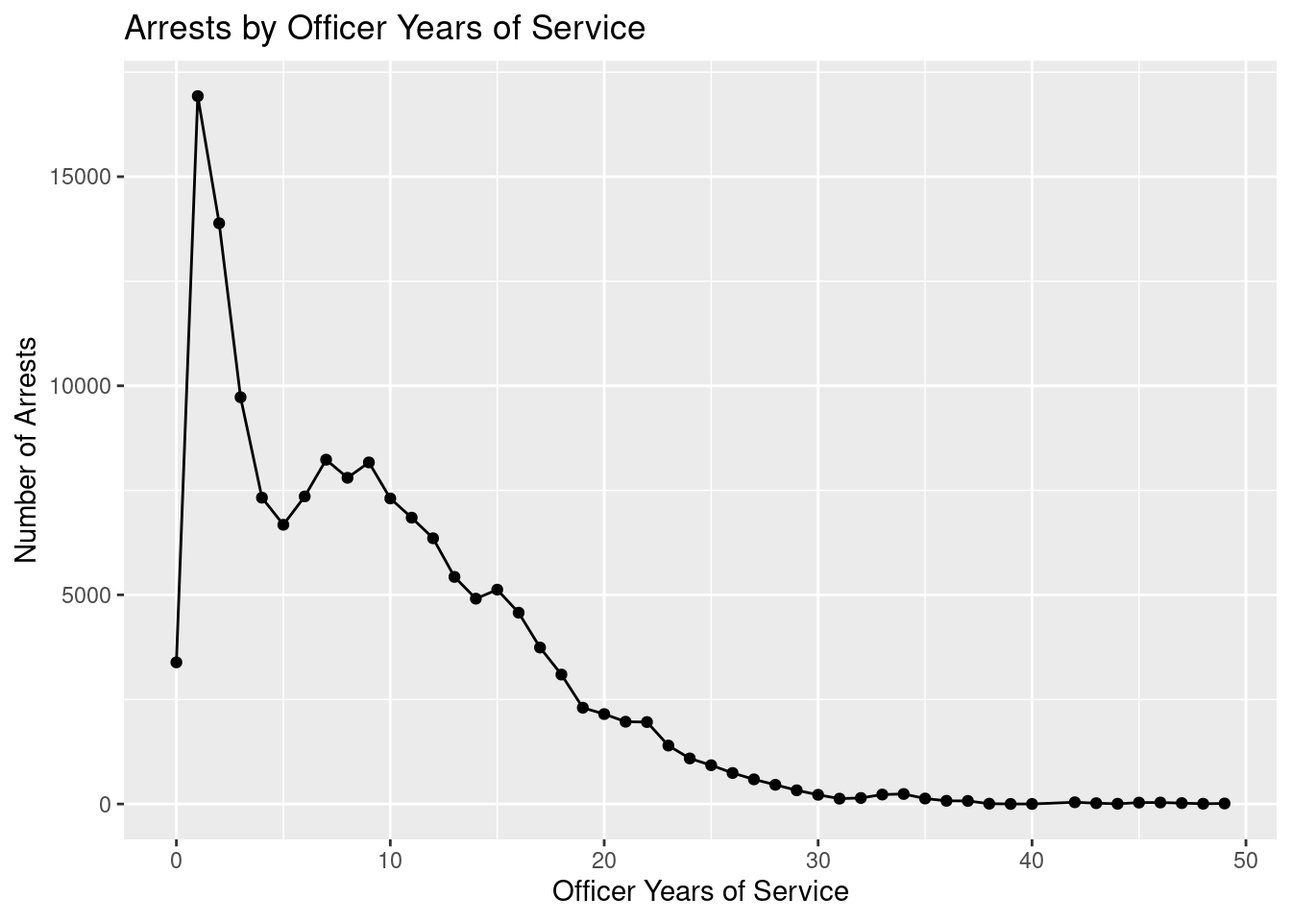
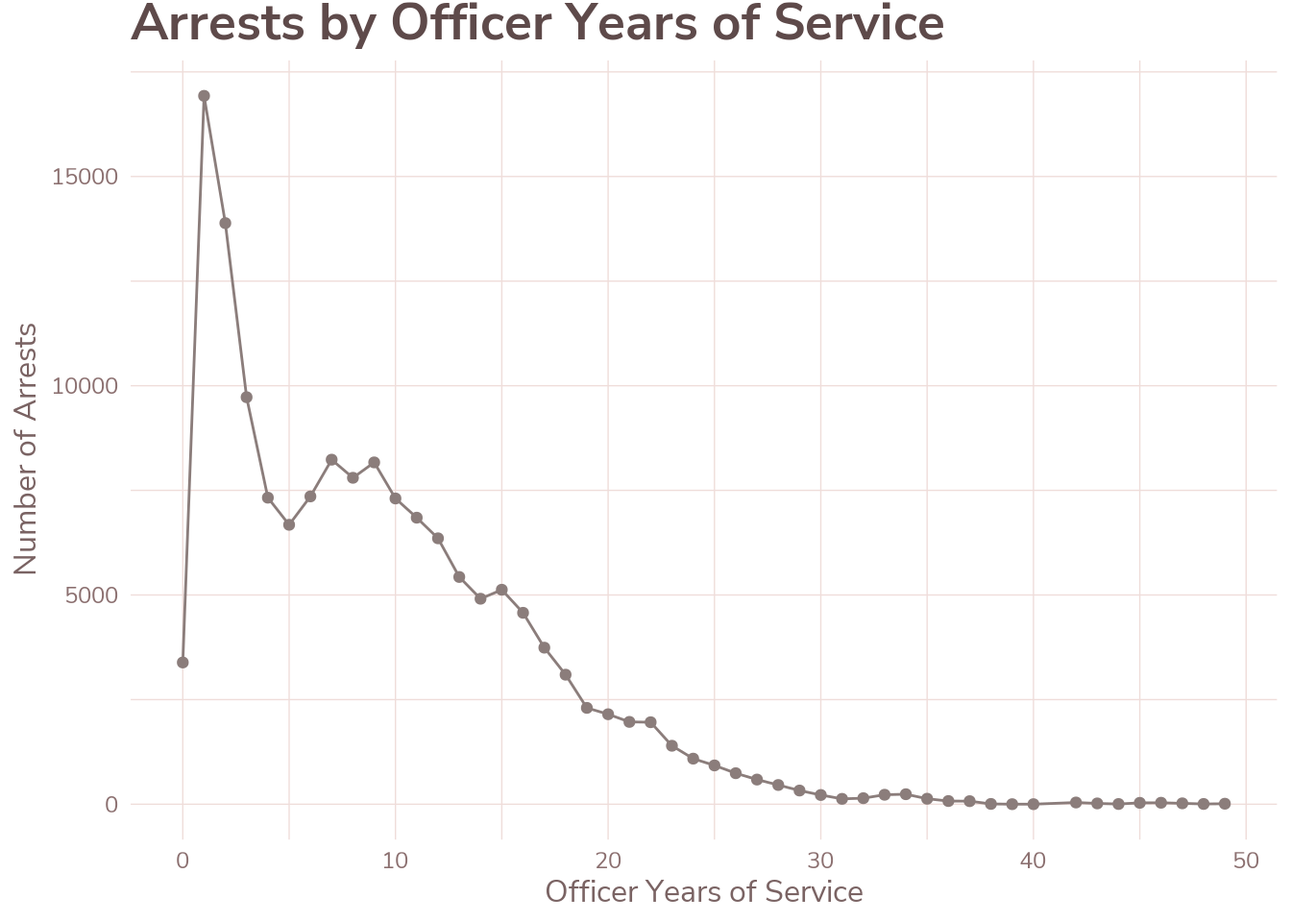
commit

diff --git a/docs/trafficstops.html b/docs/trafficstops.html
@@ -217,24 +217,33 @@ pre > code.sourceCode > span > a:first-child::before { text-decoration: underlin
 </header>
 
 
-<p>For this project, I plan on using the various data sets within the Stanford Open Policing Project to identify any noticeable trends or interesting features within traffic stop data for three populous cities within the United States. The data sets used in this assignment all contain standardized stop data from Nashville, Philadelphia, San Francisco, Los Angeles, and Chicago. The reason I chose Nashville, Philadelphia, and San Francisco was because I wanted to perform the same query of taking the average age of the individual subjected to a traffic stop on each of these cities to compare whether or not there was a difference in the results. These cities all have data for the age of the individual subjected to the traffic stop, which some of the other data sets were missing.</p>
+<p>For this project, I plan on using the various data sets within the Stanford Open Policing Project to identify any interesting features within traffic stop data for cities within the United States. The data sets used in this assignment all contain standardized stop data from Nashville, Philadelphia, San Francisco, Los Angeles, and Chicago. The reason I chose Nashville, Philadelphia, and San Francisco was because I wanted to perform the same query of taking the average age of the individual subjected to a traffic stop on each of these cities to compare whether or not there was a difference in the results. These cities all have data for the age of the individual subjected to the traffic stop, which some of the other data sets were missing.</p>
 <p>I also chose Los Angeles and Chicago as other cities to examine because I wanted to explore data from larger cities. A useful feature of the Los Angeles data set was that the data set noted whether the the traffic stop was a vehicular or pedestrian one. Because of this, I am interested in comparing whether certain racial groups experience pedestrian stops at different rates than vehicular stops in Los Angeles.</p>
 <p>The Chicago data set was unique because it had information on the officer’s age, race, sex, and years of service for each traffic stop. Given this information, I wanted to explore the relationship between the number of years of service that an officer had and whether or not they made an arrest at a traffic stop.</p>
 <p>To start this project, I established a connection with the SQL database where the different data sets were located and queried the database for the various tables included in the database.</p>
 <div class="cell">
-<div class="sourceCode cell-code" id="cb1"><pre class="sourceCode r code-with-copy"><code class="sourceCode r"><span id="cb1-1"><a href="#cb1-1" aria-hidden="true" tabindex="-1"></a><span class="fu">library</span>(tidyverse)</span>
-<span id="cb1-2"><a href="#cb1-2" aria-hidden="true" tabindex="-1"></a><span class="fu">library</span>(ggplot2)</span>
-<span id="cb1-3"><a href="#cb1-3" aria-hidden="true" tabindex="-1"></a></span>
-<span id="cb1-4"><a href="#cb1-4" aria-hidden="true" tabindex="-1"></a>con_traffic <span class="ot">&lt;-</span> DBI<span class="sc">::</span><span class="fu">dbConnect</span>(</span>
-<span id="cb1-5"><a href="#cb1-5" aria-hidden="true" tabindex="-1"></a>  RMariaDB<span class="sc">::</span><span class="fu">MariaDB</span>(),</span>
-<span id="cb1-6"><a href="#cb1-6" aria-hidden="true" tabindex="-1"></a>  <span class="at">dbname =</span> <span class="st">"traffic"</span>,</span>
-<span id="cb1-7"><a href="#cb1-7" aria-hidden="true" tabindex="-1"></a>  <span class="at">host =</span> <span class="fu">Sys.getenv</span>(<span class="st">"TRAFFIC_HOST"</span>),</span>
-<span id="cb1-8"><a href="#cb1-8" aria-hidden="true" tabindex="-1"></a>  <span class="at">user =</span> <span class="fu">Sys.getenv</span>(<span class="st">"TRAFFIC_USER"</span>),</span>
-<span id="cb1-9"><a href="#cb1-9" aria-hidden="true" tabindex="-1"></a>  <span class="at">password =</span> <span class="fu">Sys.getenv</span>(<span class="st">"TRAFFIC_PWD"</span>)</span>
-<span id="cb1-10"><a href="#cb1-10" aria-hidden="true" tabindex="-1"></a>)</span></code><button title="Copy to Clipboard" class="code-copy-button"><i class="bi"></i></button></pre></div>
+<details class="code-fold">
+<summary>Show the code</summary>
+<div class="sourceCode cell-code" id="cb1"><pre class="sourceCode r code-with-copy"><code class="sourceCode r"><span id="cb1-1"><a href="#cb1-1" aria-hidden="true" tabindex="-1"></a><span class="co">#load necessary packages + custom ggplot theme</span></span>
+<span id="cb1-2"><a href="#cb1-2" aria-hidden="true" tabindex="-1"></a><span class="fu">library</span>(tidyverse)</span>
+<span id="cb1-3"><a href="#cb1-3" aria-hidden="true" tabindex="-1"></a><span class="fu">library</span>(ggplot2)</span>
+<span id="cb1-4"><a href="#cb1-4" aria-hidden="true" tabindex="-1"></a><span class="fu">source</span>(<span class="st">"R/theme_asuva.R"</span>)</span>
+<span id="cb1-5"><a href="#cb1-5" aria-hidden="true" tabindex="-1"></a></span>
+<span id="cb1-6"><a href="#cb1-6" aria-hidden="true" tabindex="-1"></a><span class="co">#connect to SQL database</span></span>
+<span id="cb1-7"><a href="#cb1-7" aria-hidden="true" tabindex="-1"></a>con_traffic <span class="ot">&lt;-</span> DBI<span class="sc">::</span><span class="fu">dbConnect</span>(</span>
+<span id="cb1-8"><a href="#cb1-8" aria-hidden="true" tabindex="-1"></a>  RMariaDB<span class="sc">::</span><span class="fu">MariaDB</span>(),</span>
+<span id="cb1-9"><a href="#cb1-9" aria-hidden="true" tabindex="-1"></a>  <span class="at">dbname =</span> <span class="st">"traffic"</span>,</span>
+<span id="cb1-10"><a href="#cb1-10" aria-hidden="true" tabindex="-1"></a>  <span class="at">host =</span> <span class="fu">Sys.getenv</span>(<span class="st">"TRAFFIC_HOST"</span>),</span>
+<span id="cb1-11"><a href="#cb1-11" aria-hidden="true" tabindex="-1"></a>  <span class="at">user =</span> <span class="fu">Sys.getenv</span>(<span class="st">"TRAFFIC_USER"</span>),</span>
+<span id="cb1-12"><a href="#cb1-12" aria-hidden="true" tabindex="-1"></a>  <span class="at">password =</span> <span class="fu">Sys.getenv</span>(<span class="st">"TRAFFIC_PWD"</span>)</span>
+<span id="cb1-13"><a href="#cb1-13" aria-hidden="true" tabindex="-1"></a>)</span></code><button title="Copy to Clipboard" class="code-copy-button"><i class="bi"></i></button></pre></div>
+</details>
 </div>
 <div class="cell">
+<details class="code-fold">
+<summary>Show the code</summary>
 <div class="sourceCode cell-code" id="cb2"><pre class="sourceCode sql code-with-copy"><code class="sourceCode sql"><span id="cb2-1"><a href="#cb2-1" aria-hidden="true" tabindex="-1"></a>SHOW <span class="kw">TABLES</span>;</span></code><button title="Copy to Clipboard" class="code-copy-button"><i class="bi"></i></button></pre></div>
+</details>
 <div class="cell-output-display">
 <table class="caption-top table table-sm table-striped small">
 <caption>Displaying records 1 - 10</caption>
@@ -279,7 +288,10 @@ pre > code.sourceCode > span > a:first-child::before { text-decoration: underlin
 </div>
 </div>
 <div class="cell">
+<details class="code-fold">
+<summary>Show the code</summary>
 <div class="sourceCode cell-code" id="cb3"><pre class="sourceCode sql code-with-copy"><code class="sourceCode sql"><span id="cb3-1"><a href="#cb3-1" aria-hidden="true" tabindex="-1"></a>DESCRIBE tn_nashville_2020_04_01;</span></code><button title="Copy to Clipboard" class="code-copy-button"><i class="bi"></i></button></pre></div>
+</details>
 <div class="cell-output-display">
 <table class="caption-top table table-sm table-striped small">
 <caption>Displaying records 1 - 10</caption>
@@ -380,12 +392,16 @@ pre > code.sourceCode > span > a:first-child::before { text-decoration: underlin
 </div>
 <p>For the first query, I wanted to examine whether there was a difference in the average age of individuals subjected to traffic stops across different racial demographics. The SQL chunk below shows the average age of individuals in Nashville sorted by race.</p>
 <div class="cell">
-<div class="sourceCode cell-code" id="cb4"><pre class="sourceCode sql code-with-copy"><code class="sourceCode sql"><span id="cb4-1"><a href="#cb4-1" aria-hidden="true" tabindex="-1"></a><span class="kw">SELECT</span> subject_race,</span>
-<span id="cb4-2"><a href="#cb4-2" aria-hidden="true" tabindex="-1"></a>  <span class="fu">COUNT</span>(<span class="op">*</span>) <span class="kw">AS</span> num_stops, </span>
-<span id="cb4-3"><a href="#cb4-3" aria-hidden="true" tabindex="-1"></a>  <span class="fu">AVG</span>(subject_age) <span class="kw">AS</span> avg_age</span>
-<span id="cb4-4"><a href="#cb4-4" aria-hidden="true" tabindex="-1"></a><span class="kw">FROM</span> tn_nashville_2020_04_01</span>
-<span id="cb4-5"><a href="#cb4-5" aria-hidden="true" tabindex="-1"></a><span class="kw">GROUP</span> <span class="kw">BY</span> subject_race</span>
-<span id="cb4-6"><a href="#cb4-6" aria-hidden="true" tabindex="-1"></a><span class="kw">ORDER</span> <span class="kw">BY</span> avg_age;</span></code><button title="Copy to Clipboard" class="code-copy-button"><i class="bi"></i></button></pre></div>
+<details class="code-fold">
+<summary>Show the code</summary>
+<div class="sourceCode cell-code" id="cb4"><pre class="sourceCode sql code-with-copy"><code class="sourceCode sql"><span id="cb4-1"><a href="#cb4-1" aria-hidden="true" tabindex="-1"></a># <span class="kw">query</span> <span class="cf">for</span> average age <span class="kw">of</span> individuals <span class="kw">in</span> traffic stops <span class="kw">by</span> racial <span class="kw">group</span></span>
+<span id="cb4-2"><a href="#cb4-2" aria-hidden="true" tabindex="-1"></a><span class="kw">SELECT</span> subject_race,</span>
+<span id="cb4-3"><a href="#cb4-3" aria-hidden="true" tabindex="-1"></a>  <span class="fu">COUNT</span>(<span class="op">*</span>) <span class="kw">AS</span> num_stops, </span>
+<span id="cb4-4"><a href="#cb4-4" aria-hidden="true" tabindex="-1"></a>  <span class="fu">AVG</span>(subject_age) <span class="kw">AS</span> avg_age</span>
+<span id="cb4-5"><a href="#cb4-5" aria-hidden="true" tabindex="-1"></a><span class="kw">FROM</span> tn_nashville_2020_04_01</span>
+<span id="cb4-6"><a href="#cb4-6" aria-hidden="true" tabindex="-1"></a><span class="kw">GROUP</span> <span class="kw">BY</span> subject_race</span>
+<span id="cb4-7"><a href="#cb4-7" aria-hidden="true" tabindex="-1"></a><span class="kw">ORDER</span> <span class="kw">BY</span> avg_age;</span></code><button title="Copy to Clipboard" class="code-copy-button"><i class="bi"></i></button></pre></div>
+</details>
 <div class="cell-output-display">
 <table class="caption-top table table-sm table-striped small">
 <caption>7 records</caption>
@@ -438,12 +454,16 @@ pre > code.sourceCode > span > a:first-child::before { text-decoration: underlin
 </div>
 <p>From the results of the data, it seems that individuals identified as Hispanic or Other had an average age that was below 35, with Hispanic individuals having the youngest average age. White individuals had the oldest average age, at 38. Although this data raises some questions, the ages are still close enough that concrete conclusions would be hard to draw. Because of this, I chose to run the same SQL chunk with a different city, Philadelphia.</p>
 <div class="cell">
-<div class="sourceCode cell-code" id="cb5"><pre class="sourceCode sql code-with-copy"><code class="sourceCode sql"><span id="cb5-1"><a href="#cb5-1" aria-hidden="true" tabindex="-1"></a><span class="kw">SELECT</span> subject_race, </span>
-<span id="cb5-2"><a href="#cb5-2" aria-hidden="true" tabindex="-1"></a>  <span class="fu">COUNT</span>(<span class="op">*</span>) <span class="kw">AS</span> num_stops, </span>
-<span id="cb5-3"><a href="#cb5-3" aria-hidden="true" tabindex="-1"></a>  <span class="fu">AVG</span>(subject_age) <span class="kw">AS</span> avg_age </span>
-<span id="cb5-4"><a href="#cb5-4" aria-hidden="true" tabindex="-1"></a><span class="kw">FROM</span> pa_philadelphia_2020_04_01 </span>
-<span id="cb5-5"><a href="#cb5-5" aria-hidden="true" tabindex="-1"></a><span class="kw">GROUP</span> <span class="kw">BY</span> subject_race</span>
-<span id="cb5-6"><a href="#cb5-6" aria-hidden="true" tabindex="-1"></a><span class="kw">ORDER</span> <span class="kw">BY</span> avg_age;</span></code><button title="Copy to Clipboard" class="code-copy-button"><i class="bi"></i></button></pre></div>
+<details class="code-fold">
+<summary>Show the code</summary>
+<div class="sourceCode cell-code" id="cb5"><pre class="sourceCode sql code-with-copy"><code class="sourceCode sql"><span id="cb5-1"><a href="#cb5-1" aria-hidden="true" tabindex="-1"></a># <span class="kw">query</span> <span class="cf">for</span> average age <span class="kw">of</span> individuals <span class="kw">in</span> traffic stops <span class="kw">by</span> racial <span class="kw">group</span> <span class="kw">in</span> Philadelphia</span>
+<span id="cb5-2"><a href="#cb5-2" aria-hidden="true" tabindex="-1"></a><span class="kw">SELECT</span> subject_race, </span>
+<span id="cb5-3"><a href="#cb5-3" aria-hidden="true" tabindex="-1"></a>  <span class="fu">COUNT</span>(<span class="op">*</span>) <span class="kw">AS</span> num_stops, </span>
+<span id="cb5-4"><a href="#cb5-4" aria-hidden="true" tabindex="-1"></a>  <span class="fu">AVG</span>(subject_age) <span class="kw">AS</span> avg_age </span>
+<span id="cb5-5"><a href="#cb5-5" aria-hidden="true" tabindex="-1"></a><span class="kw">FROM</span> pa_philadelphia_2020_04_01 </span>
+<span id="cb5-6"><a href="#cb5-6" aria-hidden="true" tabindex="-1"></a><span class="kw">GROUP</span> <span class="kw">BY</span> subject_race</span>
+<span id="cb5-7"><a href="#cb5-7" aria-hidden="true" tabindex="-1"></a><span class="kw">ORDER</span> <span class="kw">BY</span> avg_age;</span></code><button title="Copy to Clipboard" class="code-copy-button"><i class="bi"></i></button></pre></div>
+</details>
 <div class="cell-output-display">
 <table class="caption-top table table-sm table-striped small">
 <caption>6 records</caption>
@@ -492,12 +512,16 @@ pre > code.sourceCode > span > a:first-child::before { text-decoration: underlin
 <p>The data for Philadelphia show that Hispanic individuals subject to traffic stops had the youngest average age, similar to the data set for Nashville. However, the racial demographic with the oldest average age was Asian/Pacific Islander rather than White. The mid-30s age ranges within the data table appear very similar to the ones for Nashville.</p>
 <p>To determine if there is a consistent pattern of Hispanic individuals having the youngest average age within the data, I decided to run the same chunk with San Francisco.</p>
 <div class="cell">
-<div class="sourceCode cell-code" id="cb6"><pre class="sourceCode sql code-with-copy"><code class="sourceCode sql"><span id="cb6-1"><a href="#cb6-1" aria-hidden="true" tabindex="-1"></a><span class="kw">SELECT</span> subject_race, </span>
-<span id="cb6-2"><a href="#cb6-2" aria-hidden="true" tabindex="-1"></a>  <span class="fu">COUNT</span>(<span class="op">*</span>) <span class="kw">AS</span> num_stops, </span>
-<span id="cb6-3"><a href="#cb6-3" aria-hidden="true" tabindex="-1"></a>  <span class="fu">AVG</span>(subject_age) <span class="kw">AS</span> avg_age </span>
-<span id="cb6-4"><a href="#cb6-4" aria-hidden="true" tabindex="-1"></a><span class="kw">FROM</span> ca_san_francisco_2020_04_01</span>
-<span id="cb6-5"><a href="#cb6-5" aria-hidden="true" tabindex="-1"></a><span class="kw">GROUP</span> <span class="kw">BY</span> subject_race</span>
-<span id="cb6-6"><a href="#cb6-6" aria-hidden="true" tabindex="-1"></a><span class="kw">ORDER</span> <span class="kw">BY</span> avg_age;</span></code><button title="Copy to Clipboard" class="code-copy-button"><i class="bi"></i></button></pre></div>
+<details class="code-fold">
+<summary>Show the code</summary>
+<div class="sourceCode cell-code" id="cb6"><pre class="sourceCode sql code-with-copy"><code class="sourceCode sql"><span id="cb6-1"><a href="#cb6-1" aria-hidden="true" tabindex="-1"></a># <span class="kw">query</span> <span class="cf">for</span> average age <span class="kw">of</span> individuals <span class="kw">in</span> traffic stops <span class="kw">by</span> racial <span class="kw">group</span> <span class="kw">in</span> San Francisco</span>
+<span id="cb6-2"><a href="#cb6-2" aria-hidden="true" tabindex="-1"></a><span class="kw">SELECT</span> subject_race, </span>
+<span id="cb6-3"><a href="#cb6-3" aria-hidden="true" tabindex="-1"></a>  <span class="fu">COUNT</span>(<span class="op">*</span>) <span class="kw">AS</span> num_stops, </span>
+<span id="cb6-4"><a href="#cb6-4" aria-hidden="true" tabindex="-1"></a>  <span class="fu">AVG</span>(subject_age) <span class="kw">AS</span> avg_age </span>
+<span id="cb6-5"><a href="#cb6-5" aria-hidden="true" tabindex="-1"></a><span class="kw">FROM</span> ca_san_francisco_2020_04_01</span>
+<span id="cb6-6"><a href="#cb6-6" aria-hidden="true" tabindex="-1"></a><span class="kw">GROUP</span> <span class="kw">BY</span> subject_race</span>
+<span id="cb6-7"><a href="#cb6-7" aria-hidden="true" tabindex="-1"></a><span class="kw">ORDER</span> <span class="kw">BY</span> avg_age;</span></code><button title="Copy to Clipboard" class="code-copy-button"><i class="bi"></i></button></pre></div>
+</details>
 <div class="cell-output-display">
 <table class="caption-top table table-sm table-striped small">
 <caption>5 records</caption>
@@ -542,9 +566,13 @@ pre > code.sourceCode > span > a:first-child::before { text-decoration: underlin
 <p>Although the pattern is interesting to note, the data by itself cannot be used to conclusively prove differences in law enforcement interactions with individuals of different races. More analysis is required for this conclusion.</p>
 <p>I was interested in exploring more patterns related to race in the traffic stop data, so for the next query I wanted to compare whether certain racial groups experience pedestrian stops at different rates than vehicular stops. For this data set, I decided to use Los Angeles because it is one of the most populous cities in the US, and because the data set categorized each stop as vehicular versus pedestrian—a feature that other city data sets did not have. I determined this through the query below, which uses SELECT DISTINCT to return only unique rows for the “Type” column.</p>
 <div class="cell">
-<div class="sourceCode cell-code" id="cb7"><pre class="sourceCode sql code-with-copy"><code class="sourceCode sql"><span id="cb7-1"><a href="#cb7-1" aria-hidden="true" tabindex="-1"></a><span class="kw">SELECT</span> <span class="kw">DISTINCT</span> <span class="kw">type</span> </span>
-<span id="cb7-2"><a href="#cb7-2" aria-hidden="true" tabindex="-1"></a><span class="kw">FROM</span> ca_los_angeles_2020_04_01</span>
-<span id="cb7-3"><a href="#cb7-3" aria-hidden="true" tabindex="-1"></a><span class="kw">LIMIT</span> <span class="dv">0</span>, <span class="dv">10</span>;</span></code><button title="Copy to Clipboard" class="code-copy-button"><i class="bi"></i></button></pre></div>
+<details class="code-fold">
+<summary>Show the code</summary>
+<div class="sourceCode cell-code" id="cb7"><pre class="sourceCode sql code-with-copy"><code class="sourceCode sql"><span id="cb7-1"><a href="#cb7-1" aria-hidden="true" tabindex="-1"></a># <span class="kw">query</span> <span class="cf">for</span> <span class="kw">distinct</span> <span class="kw">rows</span> <span class="kw">in</span> <span class="kw">column</span> <span class="kw">of</span> <span class="kw">type</span> <span class="kw">of</span> traffic <span class="kw">stop</span></span>
+<span id="cb7-2"><a href="#cb7-2" aria-hidden="true" tabindex="-1"></a><span class="kw">SELECT</span> <span class="kw">DISTINCT</span> <span class="kw">type</span> </span>
+<span id="cb7-3"><a href="#cb7-3" aria-hidden="true" tabindex="-1"></a><span class="kw">FROM</span> ca_los_angeles_2020_04_01</span>
+<span id="cb7-4"><a href="#cb7-4" aria-hidden="true" tabindex="-1"></a><span class="kw">LIMIT</span> <span class="dv">0</span>, <span class="dv">10</span>;</span></code><button title="Copy to Clipboard" class="code-copy-button"><i class="bi"></i></button></pre></div>
+</details>
 <div class="cell-output-display">
 <table class="caption-top table table-sm table-striped small">
 <caption>3 records</caption>
@@ -568,16 +596,24 @@ pre > code.sourceCode > span > a:first-child::before { text-decoration: underlin
 </div>
 </div>
 <div class="cell" data-output.var="stops_by_type">
-<div class="sourceCode cell-code" id="cb8"><pre class="sourceCode sql code-with-copy"><code class="sourceCode sql"><span id="cb8-1"><a href="#cb8-1" aria-hidden="true" tabindex="-1"></a><span class="kw">SELECT</span> subject_race,</span>
-<span id="cb8-2"><a href="#cb8-2" aria-hidden="true" tabindex="-1"></a><span class="fu">COUNT</span>(<span class="op">*</span>) <span class="kw">as</span> num_stops,</span>
-<span id="cb8-3"><a href="#cb8-3" aria-hidden="true" tabindex="-1"></a><span class="fu">SUM</span>(<span class="kw">type</span> <span class="op">=</span> <span class="st">'pedestrian'</span>) <span class="kw">AS</span> ped_stops,</span>
-<span id="cb8-4"><a href="#cb8-4" aria-hidden="true" tabindex="-1"></a><span class="fu">SUM</span>(<span class="kw">type</span> <span class="op">=</span> <span class="st">'vehicular'</span>) <span class="kw">AS</span> vclr_stops</span>
-<span id="cb8-5"><a href="#cb8-5" aria-hidden="true" tabindex="-1"></a><span class="kw">FROM</span> ca_los_angeles_2020_04_01</span>
-<span id="cb8-6"><a href="#cb8-6" aria-hidden="true" tabindex="-1"></a><span class="kw">GROUP</span> <span class="kw">BY</span> subject_race</span>
-<span id="cb8-7"><a href="#cb8-7" aria-hidden="true" tabindex="-1"></a><span class="kw">ORDER</span> <span class="kw">BY</span> ped_stops, vclr_stops;</span></code><button title="Copy to Clipboard" class="code-copy-button"><i class="bi"></i></button></pre></div>
+<details class="code-fold">
+<summary>Show the code</summary>
+<div class="sourceCode cell-code" id="cb8"><pre class="sourceCode sql code-with-copy"><code class="sourceCode sql"><span id="cb8-1"><a href="#cb8-1" aria-hidden="true" tabindex="-1"></a>#create an R output displaying <span class="kw">the</span> <span class="dt">number</span> <span class="kw">of</span> pedestrian stops, vehicle stops, <span class="kw">and</span> total stops grouped <span class="kw">by</span> <span class="kw">the</span> race <span class="kw">of</span> <span class="kw">the</span> individual stopped</span>
+<span id="cb8-2"><a href="#cb8-2" aria-hidden="true" tabindex="-1"></a><span class="kw">SELECT</span> subject_race,</span>
+<span id="cb8-3"><a href="#cb8-3" aria-hidden="true" tabindex="-1"></a><span class="fu">COUNT</span>(<span class="op">*</span>) <span class="kw">as</span> num_stops,</span>
+<span id="cb8-4"><a href="#cb8-4" aria-hidden="true" tabindex="-1"></a><span class="fu">SUM</span>(<span class="kw">type</span> <span class="op">=</span> <span class="st">'pedestrian'</span>) <span class="kw">AS</span> ped_stops,</span>
+<span id="cb8-5"><a href="#cb8-5" aria-hidden="true" tabindex="-1"></a><span class="fu">SUM</span>(<span class="kw">type</span> <span class="op">=</span> <span class="st">'vehicular'</span>) <span class="kw">AS</span> vclr_stops</span>
+<span id="cb8-6"><a href="#cb8-6" aria-hidden="true" tabindex="-1"></a><span class="kw">FROM</span> ca_los_angeles_2020_04_01</span>
+<span id="cb8-7"><a href="#cb8-7" aria-hidden="true" tabindex="-1"></a><span class="kw">GROUP</span> <span class="kw">BY</span> subject_race</span>
+<span id="cb8-8"><a href="#cb8-8" aria-hidden="true" tabindex="-1"></a><span class="kw">ORDER</span> <span class="kw">BY</span> ped_stops, vclr_stops;</span></code><button title="Copy to Clipboard" class="code-copy-button"><i class="bi"></i></button></pre></div>
+</details>
 </div>
 <div class="cell">
-<div class="sourceCode cell-code" id="cb9"><pre class="sourceCode r code-with-copy"><code class="sourceCode r"><span id="cb9-1"><a href="#cb9-1" aria-hidden="true" tabindex="-1"></a>stops_by_type</span></code><button title="Copy to Clipboard" class="code-copy-button"><i class="bi"></i></button></pre></div>
+<details class="code-fold">
+<summary>Show the code</summary>
+<div class="sourceCode cell-code" id="cb9"><pre class="sourceCode r code-with-copy"><code class="sourceCode r"><span id="cb9-1"><a href="#cb9-1" aria-hidden="true" tabindex="-1"></a><span class="co">#view r output from previous chunk</span></span>
+<span id="cb9-2"><a href="#cb9-2" aria-hidden="true" tabindex="-1"></a>stops_by_type</span></code><button title="Copy to Clipboard" class="code-copy-button"><i class="bi"></i></button></pre></div>
+</details>
 <div class="cell-output cell-output-stdout">
 <pre><code>            subject_race num_stops ped_stops vclr_stops
 1 asian/pacific islander    205561     18026     187535
@@ -588,28 +624,38 @@ pre > code.sourceCode > span > a:first-child::before { text-decoration: underlin
 </div>
 </div>
 <div class="cell">
-<div class="sourceCode cell-code" id="cb11"><pre class="sourceCode r code-with-copy"><code class="sourceCode r"><span id="cb11-1"><a href="#cb11-1" aria-hidden="true" tabindex="-1"></a>stops_by_type_adj <span class="ot">&lt;-</span> stops_by_type <span class="sc">|&gt;</span></span>
-<span id="cb11-2"><a href="#cb11-2" aria-hidden="true" tabindex="-1"></a>  <span class="fu">pivot_longer</span>(<span class="at">cols =</span> <span class="fu">c</span>(ped_stops, vclr_stops), <span class="at">names_to =</span> <span class="st">"stop_type"</span>, <span class="at">values_to =</span> <span class="st">"count"</span>)</span>
-<span id="cb11-3"><a href="#cb11-3" aria-hidden="true" tabindex="-1"></a></span>
-<span id="cb11-4"><a href="#cb11-4" aria-hidden="true" tabindex="-1"></a><span class="fu">ggplot</span>(stops_by_type_adj, <span class="fu">aes</span>(<span class="at">x =</span> subject_race, <span class="at">y =</span> count, <span class="at">fill =</span> stop_type)) <span class="sc">+</span></span>
-<span id="cb11-5"><a href="#cb11-5" aria-hidden="true" tabindex="-1"></a>  <span class="fu">geom_bar</span>(<span class="at">stat =</span> <span class="st">"identity"</span>) <span class="sc">+</span></span>
-<span id="cb11-6"><a href="#cb11-6" aria-hidden="true" tabindex="-1"></a>  <span class="fu">labs</span>(<span class="at">title =</span> <span class="st">"Stops by Race and Stop Type in Los Angeles"</span>,</span>
-<span id="cb11-7"><a href="#cb11-7" aria-hidden="true" tabindex="-1"></a>    <span class="at">x =</span> <span class="st">"Subject Race"</span>,</span>
-<span id="cb11-8"><a href="#cb11-8" aria-hidden="true" tabindex="-1"></a>    <span class="at">y =</span> <span class="st">"Number of Stops"</span>,</span>
-<span id="cb11-9"><a href="#cb11-9" aria-hidden="true" tabindex="-1"></a>    <span class="at">fill =</span> <span class="st">"Stop Type"</span>)</span></code><button title="Copy to Clipboard" class="code-copy-button"><i class="bi"></i></button></pre></div>
+<details class="code-fold">
+<summary>Show the code</summary>
+<div class="sourceCode cell-code" id="cb11"><pre class="sourceCode r code-with-copy"><code class="sourceCode r"><span id="cb11-1"><a href="#cb11-1" aria-hidden="true" tabindex="-1"></a><span class="co">#pivot longer so that type of stop can become a categorical variable (easier for graphing)</span></span>
+<span id="cb11-2"><a href="#cb11-2" aria-hidden="true" tabindex="-1"></a>stops_by_type_adj <span class="ot">&lt;-</span> stops_by_type <span class="sc">|&gt;</span></span>
+<span id="cb11-3"><a href="#cb11-3" aria-hidden="true" tabindex="-1"></a>  <span class="fu">pivot_longer</span>(<span class="at">cols =</span> <span class="fu">c</span>(ped_stops, vclr_stops), <span class="at">names_to =</span> <span class="st">"stop_type"</span>, <span class="at">values_to =</span> <span class="st">"count"</span>)</span>
+<span id="cb11-4"><a href="#cb11-4" aria-hidden="true" tabindex="-1"></a></span>
+<span id="cb11-5"><a href="#cb11-5" aria-hidden="true" tabindex="-1"></a><span class="co">#graph tibble in a bar chart</span></span>
+<span id="cb11-6"><a href="#cb11-6" aria-hidden="true" tabindex="-1"></a><span class="fu">ggplot</span>(stops_by_type_adj, <span class="fu">aes</span>(<span class="at">x =</span> subject_race, <span class="at">y =</span> count, <span class="at">fill =</span> stop_type)) <span class="sc">+</span></span>
+<span id="cb11-7"><a href="#cb11-7" aria-hidden="true" tabindex="-1"></a>  <span class="fu">geom_bar</span>(<span class="at">stat =</span> <span class="st">"identity"</span>) <span class="sc">+</span></span>
+<span id="cb11-8"><a href="#cb11-8" aria-hidden="true" tabindex="-1"></a>  <span class="fu">labs</span>(<span class="at">title =</span> <span class="st">"Stops by Race and Stop Type in Los Angeles"</span>,</span>
+<span id="cb11-9"><a href="#cb11-9" aria-hidden="true" tabindex="-1"></a>    <span class="at">x =</span> <span class="st">"Subject Race"</span>,</span>
+<span id="cb11-10"><a href="#cb11-10" aria-hidden="true" tabindex="-1"></a>    <span class="at">y =</span> <span class="st">"Number of Stops"</span>,</span>
+<span id="cb11-11"><a href="#cb11-11" aria-hidden="true" tabindex="-1"></a>    <span class="at">fill =</span> <span class="st">"Stop Type"</span>) <span class="sc">+</span></span>
+<span id="cb11-12"><a href="#cb11-12" aria-hidden="true" tabindex="-1"></a>  <span class="fu">theme_asuva</span>()</span></code><button title="Copy to Clipboard" class="code-copy-button"><i class="bi"></i></button></pre></div>
+</details>
 <div class="cell-output-display">
 <div>
 <figure class="figure">
-<p><img src="trafficstops_files/figure-html/unnamed-chunk-10-1.png" class="img-fluid figure-img" width="672"></p>
+<p><img src="trafficstops_files/figure-html/unnamed-chunk-10-1.png" class="img-fluid figure-img" alt="Stacked bar chart of stops by race in Los Angeles, with stacks corresponding to each type of stop (vehicular vs. pedestrian)." width="672"></p>
 </figure>
 </div>
 </div>
 </div>
-<p>The data for Los Angeles has some interesting features. One thing that I immediately noticed with the data is that although the number of White individuals who were subject to a vehicular stop is greater than the number of Black individuals (1030083 &gt; 881203), the reverse was true for pedestrian stops. Black individuals experienced more pedestrian stops than White individuals. Additionally, the proportion of pedestrian stops to vehicular stops also varied quite wildly between racial groups. The Asian/Pacific Islander demographic had the lowest proportion of 0.096. This was followed by the Other demographic, with a proportion of 0.109. The proportion of pedestrian stops to vehicular stops for White individuals was also noticeably lower, 0.239. However, the ratio for black individuals was 0.473, almost 1/2. For Hispanic individuals, the proportion was 0.329.</p>
+<p>The data for Los Angeles has some interesting features. One thing that I immediately noticed with the data is that although the number of White individuals who were subject to a vehicular stop is greater than the number of Black individuals (1030083 &gt; 881203), the reverse was true for pedestrian stops. Black individuals experienced more pedestrian stops than White individuals.</p>
+<p>Additionally, the proportion of pedestrian stops to vehicular stops also varied quite wildly between racial groups. The Asian/Pacific Islander demographic had the lowest proportion of pedestrian stops, 0.088. This was followed by the Other demographic, with a proportion of 0.098. The proportion of pedestrian stops for White individuals was also noticeably lower, 0.193. However, the proportion for black individuals was 0.321, noticeably higher. For Hispanic individuals, the proportion was 0.247.</p>
 <p>These numbers suggest that Black and Hispanic individuals may experience more pedestrian stops compared to other racial groups. This may explain the discrepancy between the pedestrian and vehicular stops for black individuals, since it may be harder for law enforcement to identify an individual’s race while they are driving than when they are walking.</p>
 <p>I wanted to continue exploring the data sets, so I decided to examine another populous city, Chicago. While examining the Chicago data set, I realized that the data set had information on the officer’s age, race, sex, and years of service for each traffic stop. With these extra pieces of information, I wanted to explore the relationship between the number of years of service that an officer had and whether or not they made an arrest at a traffic stop.</p>
 <div class="cell">
+<details class="code-fold">
+<summary>Show the code</summary>
 <div class="sourceCode cell-code" id="cb12"><pre class="sourceCode sql code-with-copy"><code class="sourceCode sql"><span id="cb12-1"><a href="#cb12-1" aria-hidden="true" tabindex="-1"></a>DESCRIBE il_chicago_2023_01_26;</span></code><button title="Copy to Clipboard" class="code-copy-button"><i class="bi"></i></button></pre></div>
+</details>
 <div class="cell-output-display">
 <table class="caption-top table table-sm table-striped small">
 <caption>Displaying records 1 - 10</caption>
@@ -709,19 +755,30 @@ pre > code.sourceCode > span > a:first-child::before { text-decoration: underlin
 </div>
 </div>
 <div class="cell" data-output.var="arrests_by_service_year">
-<div class="sourceCode cell-code" id="cb13"><pre class="sourceCode sql code-with-copy"><code class="sourceCode sql"><span id="cb13-1"><a href="#cb13-1" aria-hidden="true" tabindex="-1"></a><span class="kw">SELECT</span> officer_years_of_service, </span>
-<span id="cb13-2"><a href="#cb13-2" aria-hidden="true" tabindex="-1"></a>  <span class="fu">COUNT</span>(<span class="op">*</span>) <span class="kw">AS</span> arrests</span>
-<span id="cb13-3"><a href="#cb13-3" aria-hidden="true" tabindex="-1"></a><span class="kw">FROM</span> il_chicago_2023_01_26</span>
-<span id="cb13-4"><a href="#cb13-4" aria-hidden="true" tabindex="-1"></a><span class="kw">WHERE</span> arrest_made <span class="op">=</span> <span class="dv">1</span></span>
-<span id="cb13-5"><a href="#cb13-5" aria-hidden="true" tabindex="-1"></a><span class="kw">GROUP</span> <span class="kw">BY</span> officer_years_of_service</span>
-<span id="cb13-6"><a href="#cb13-6" aria-hidden="true" tabindex="-1"></a><span class="kw">ORDER</span> <span class="kw">BY</span> officer_years_of_service;</span></code><button title="Copy to Clipboard" class="code-copy-button"><i class="bi"></i></button></pre></div>
+<details class="code-fold">
+<summary>Show the code</summary>
+<div class="sourceCode cell-code" id="cb13"><pre class="sourceCode sql code-with-copy"><code class="sourceCode sql"><span id="cb13-1"><a href="#cb13-1" aria-hidden="true" tabindex="-1"></a>#create an R output displaying <span class="dt">number</span> <span class="kw">of</span> arrests <span class="kw">by</span> <span class="kw">each</span> <span class="dt">year</span> <span class="kw">of</span> service </span>
+<span id="cb13-2"><a href="#cb13-2" aria-hidden="true" tabindex="-1"></a><span class="kw">SELECT</span> officer_years_of_service, </span>
+<span id="cb13-3"><a href="#cb13-3" aria-hidden="true" tabindex="-1"></a>  <span class="fu">COUNT</span>(<span class="op">*</span>) <span class="kw">AS</span> arrests</span>
+<span id="cb13-4"><a href="#cb13-4" aria-hidden="true" tabindex="-1"></a><span class="kw">FROM</span> il_chicago_2023_01_26</span>
+<span id="cb13-5"><a href="#cb13-5" aria-hidden="true" tabindex="-1"></a><span class="kw">WHERE</span> arrest_made <span class="op">=</span> <span class="dv">1</span></span>
+<span id="cb13-6"><a href="#cb13-6" aria-hidden="true" tabindex="-1"></a><span class="kw">GROUP</span> <span class="kw">BY</span> officer_years_of_service</span>
+<span id="cb13-7"><a href="#cb13-7" aria-hidden="true" tabindex="-1"></a><span class="kw">ORDER</span> <span class="kw">BY</span> officer_years_of_service;</span></code><button title="Copy to Clipboard" class="code-copy-button"><i class="bi"></i></button></pre></div>
+</details>
 </div>
 <div class="cell">
-<div class="sourceCode cell-code" id="cb14"><pre class="sourceCode r code-with-copy"><code class="sourceCode r"><span id="cb14-1"><a href="#cb14-1" aria-hidden="true" tabindex="-1"></a>DBI<span class="sc">::</span><span class="fu">dbDisconnect</span>(con_traffic, <span class="at">shutdown =</span> <span class="cn">TRUE</span>)</span></code><button title="Copy to Clipboard" class="code-copy-button"><i class="bi"></i></button></pre></div>
+<details class="code-fold">
+<summary>Show the code</summary>
+<div class="sourceCode cell-code" id="cb14"><pre class="sourceCode r code-with-copy"><code class="sourceCode r"><span id="cb14-1"><a href="#cb14-1" aria-hidden="true" tabindex="-1"></a><span class="co">#disconnect from SQL database </span></span>
+<span id="cb14-2"><a href="#cb14-2" aria-hidden="true" tabindex="-1"></a>DBI<span class="sc">::</span><span class="fu">dbDisconnect</span>(con_traffic, <span class="at">shutdown =</span> <span class="cn">TRUE</span>)</span></code><button title="Copy to Clipboard" class="code-copy-button"><i class="bi"></i></button></pre></div>
+</details>
 </div>
 <p>I used the query above to create an R object with two columns: a column for year of service and a column for the number of arrests made by each officer having that many years of service.</p>
 <div class="cell">
+<details class="code-fold">
+<summary>Show the code</summary>
 <div class="sourceCode cell-code" id="cb15"><pre class="sourceCode r code-with-copy"><code class="sourceCode r"><span id="cb15-1"><a href="#cb15-1" aria-hidden="true" tabindex="-1"></a>arrests_by_service_year</span></code><button title="Copy to Clipboard" class="code-copy-button"><i class="bi"></i></button></pre></div>
+</details>
 <div class="cell-output cell-output-stdout">
 <pre><code>   officer_years_of_service arrests
 1                        NA   60043
@@ -784,27 +841,33 @@ pre > code.sourceCode > span > a:first-child::before { text-decoration: underlin
 <p>When examining the data in the table, I noticed that there was something strange with some of the entries under the column “officer_years_of_service.” There were about five entries in the column that were above 100 years, which are impossible numbers. In order to graph the data more accurately, I decided to filter those impossible rows before graphing.</p>
 <p>Although the table has around 50 rows, several observations can be made just by parsing through the rows. Something of note is that the greatest number of arrests occurred by officers with 1 year of service. After one year, the number of arrests appears to decrease sharply and gradually decrease as the number of years of service increases. In order to see this trend more easily, I decided to graph the table with ggplot as a line graph.</p>
 <div class="cell">
-<div class="sourceCode cell-code" id="cb17"><pre class="sourceCode r code-with-copy"><code class="sourceCode r"><span id="cb17-1"><a href="#cb17-1" aria-hidden="true" tabindex="-1"></a>arrests_by_service_year_clean <span class="ot">&lt;-</span> arrests_by_service_year <span class="sc">|&gt;</span></span>
-<span id="cb17-2"><a href="#cb17-2" aria-hidden="true" tabindex="-1"></a>  <span class="fu">filter</span>(officer_years_of_service <span class="sc">&lt;</span> <span class="dv">100</span>)</span>
-<span id="cb17-3"><a href="#cb17-3" aria-hidden="true" tabindex="-1"></a></span>
-<span id="cb17-4"><a href="#cb17-4" aria-hidden="true" tabindex="-1"></a><span class="fu">ggplot</span>(arrests_by_service_year_clean, <span class="fu">aes</span>(<span class="at">x =</span> officer_years_of_service, <span class="at">y =</span> arrests)) <span class="sc">+</span></span>
-<span id="cb17-5"><a href="#cb17-5" aria-hidden="true" tabindex="-1"></a>  <span class="fu">geom_line</span>() <span class="sc">+</span></span>
-<span id="cb17-6"><a href="#cb17-6" aria-hidden="true" tabindex="-1"></a>  <span class="fu">geom_point</span>() <span class="sc">+</span></span>
-<span id="cb17-7"><a href="#cb17-7" aria-hidden="true" tabindex="-1"></a>  <span class="fu">labs</span>(<span class="at">title =</span> <span class="st">"Arrests by Officer Years of Service"</span>,</span>
-<span id="cb17-8"><a href="#cb17-8" aria-hidden="true" tabindex="-1"></a>  <span class="at">x =</span> <span class="st">"Officer Years of Service"</span>,</span>
-<span id="cb17-9"><a href="#cb17-9" aria-hidden="true" tabindex="-1"></a>  <span class="at">y =</span> <span class="st">"Number of Arrests"</span>) </span></code><button title="Copy to Clipboard" class="code-copy-button"><i class="bi"></i></button></pre></div>
+<details class="code-fold">
+<summary>Show the code</summary>
+<div class="sourceCode cell-code" id="cb17"><pre class="sourceCode r code-with-copy"><code class="sourceCode r"><span id="cb17-1"><a href="#cb17-1" aria-hidden="true" tabindex="-1"></a><span class="co">#cleaning out illogical rows </span></span>
+<span id="cb17-2"><a href="#cb17-2" aria-hidden="true" tabindex="-1"></a>arrests_by_service_year_clean <span class="ot">&lt;-</span> arrests_by_service_year <span class="sc">|&gt;</span></span>
+<span id="cb17-3"><a href="#cb17-3" aria-hidden="true" tabindex="-1"></a>  <span class="fu">filter</span>(officer_years_of_service <span class="sc">&lt;</span> <span class="dv">100</span>)</span>
+<span id="cb17-4"><a href="#cb17-4" aria-hidden="true" tabindex="-1"></a></span>
+<span id="cb17-5"><a href="#cb17-5" aria-hidden="true" tabindex="-1"></a><span class="co">#plot number of arrests and officer years in a line plot</span></span>
+<span id="cb17-6"><a href="#cb17-6" aria-hidden="true" tabindex="-1"></a><span class="fu">ggplot</span>(arrests_by_service_year_clean, <span class="fu">aes</span>(<span class="at">x =</span> officer_years_of_service, <span class="at">y =</span> arrests)) <span class="sc">+</span></span>
+<span id="cb17-7"><a href="#cb17-7" aria-hidden="true" tabindex="-1"></a>  <span class="fu">geom_line</span>(<span class="at">color =</span> <span class="st">"mistyrose4"</span>) <span class="sc">+</span></span>
+<span id="cb17-8"><a href="#cb17-8" aria-hidden="true" tabindex="-1"></a>  <span class="fu">geom_point</span>(<span class="at">color =</span> <span class="st">"mistyrose4"</span>) <span class="sc">+</span></span>
+<span id="cb17-9"><a href="#cb17-9" aria-hidden="true" tabindex="-1"></a>  <span class="fu">labs</span>(<span class="at">title =</span> <span class="st">"Arrests by Officer Years of Service"</span>,</span>
+<span id="cb17-10"><a href="#cb17-10" aria-hidden="true" tabindex="-1"></a>  <span class="at">x =</span> <span class="st">"Officer Years of Service"</span>,</span>
+<span id="cb17-11"><a href="#cb17-11" aria-hidden="true" tabindex="-1"></a>  <span class="at">y =</span> <span class="st">"Number of Arrests"</span>) <span class="sc">+</span></span>
+<span id="cb17-12"><a href="#cb17-12" aria-hidden="true" tabindex="-1"></a>  <span class="fu">theme_asuva</span>()</span></code><button title="Copy to Clipboard" class="code-copy-button"><i class="bi"></i></button></pre></div>
+</details>
 <div class="cell-output-display">
 <div>
 <figure class="figure">
-<p><img src="trafficstops_files/figure-html/unnamed-chunk-15-1.png" class="img-fluid figure-img" width="672"></p>
+<p><img src="trafficstops_files/figure-html/unnamed-chunk-15-1.png" class="img-fluid figure-img" alt="Line chart depicting arrests by officer years of service, with a peak at 1 year of service." width="672"></p>
 </figure>
 </div>
 </div>
 </div>
 <p>The data in the graph appears to confirm my observations about the table. The peak number of arrests were made by officers with one year of service, and as officers have more years of service, the arrests gradually decline.</p>
-<p>This relationship may be due to a variety of factors, all of which cannot be proved by the data set alone but may be worth exploring. For one, there may simply be more junior officers in general, and less officers with greater years of experience. Younger officers may be more active in patrolling, causing greater numbers of arrests. Older officers may also be more selective about traffic stops or more cautious about entering potentially dangerous situations which may warrant arrests. Although these reasons are mostly speculation, the trend is interesting because it is very pronounced.</p>
-<p>In conclusion, the exploration of the data above aligns with existing understanding about racial bias within policing and the disproportionate targeting of certain racial demographics over others. While the data tables and graphs above are not enough to conclusively prove the existence of racial bias in policing, there is evidence of differences between racial groups in their interactions with law enforcement.</p>
-<p>Credits:</p>
+<p>This relationship may be due to a variety of factors, all of which cannot be proved by the data set alone but may be worth exploring. For one, there may simply be more junior officers in general, and less officers with greater years of experience. Other reasons may be that younger officers may be more active in patrolling, causing greater numbers of arrests. Older officers may also be more selective about traffic stops or more cautious about entering potentially dangerous situations which may warrant arrests. Although these reasons are speculation, the trend is interesting because it is very pronounced.</p>
+<p>In conclusion, the exploration of the data above suggest the existence of racial disparities within policing. While the data tables and graphs above are not enough to conclusively prove the existence of racial bias in policing, there is evidence of differences between racial groups in their interactions with law enforcement.</p>
+<p><u>Credit:</u></p>
 <p><em>The Stanford Open Policing Project</em>. (2018). Openpolicing.stanford.edu. https://openpolicing.stanford.edu/</p>
 <p>Pierson, Emma, Camelia Simoiu, Jan Overgoor, Sam Corbett-Davies, Daniel Jenson, Amy Shoemaker, Vignesh Ramachandran, et al.&nbsp;2020. “A Large-Scale Analysis of Racial Disparities in Police Stops Across the United States.” Nature Human Behaviour, 1–10.</p>
 
